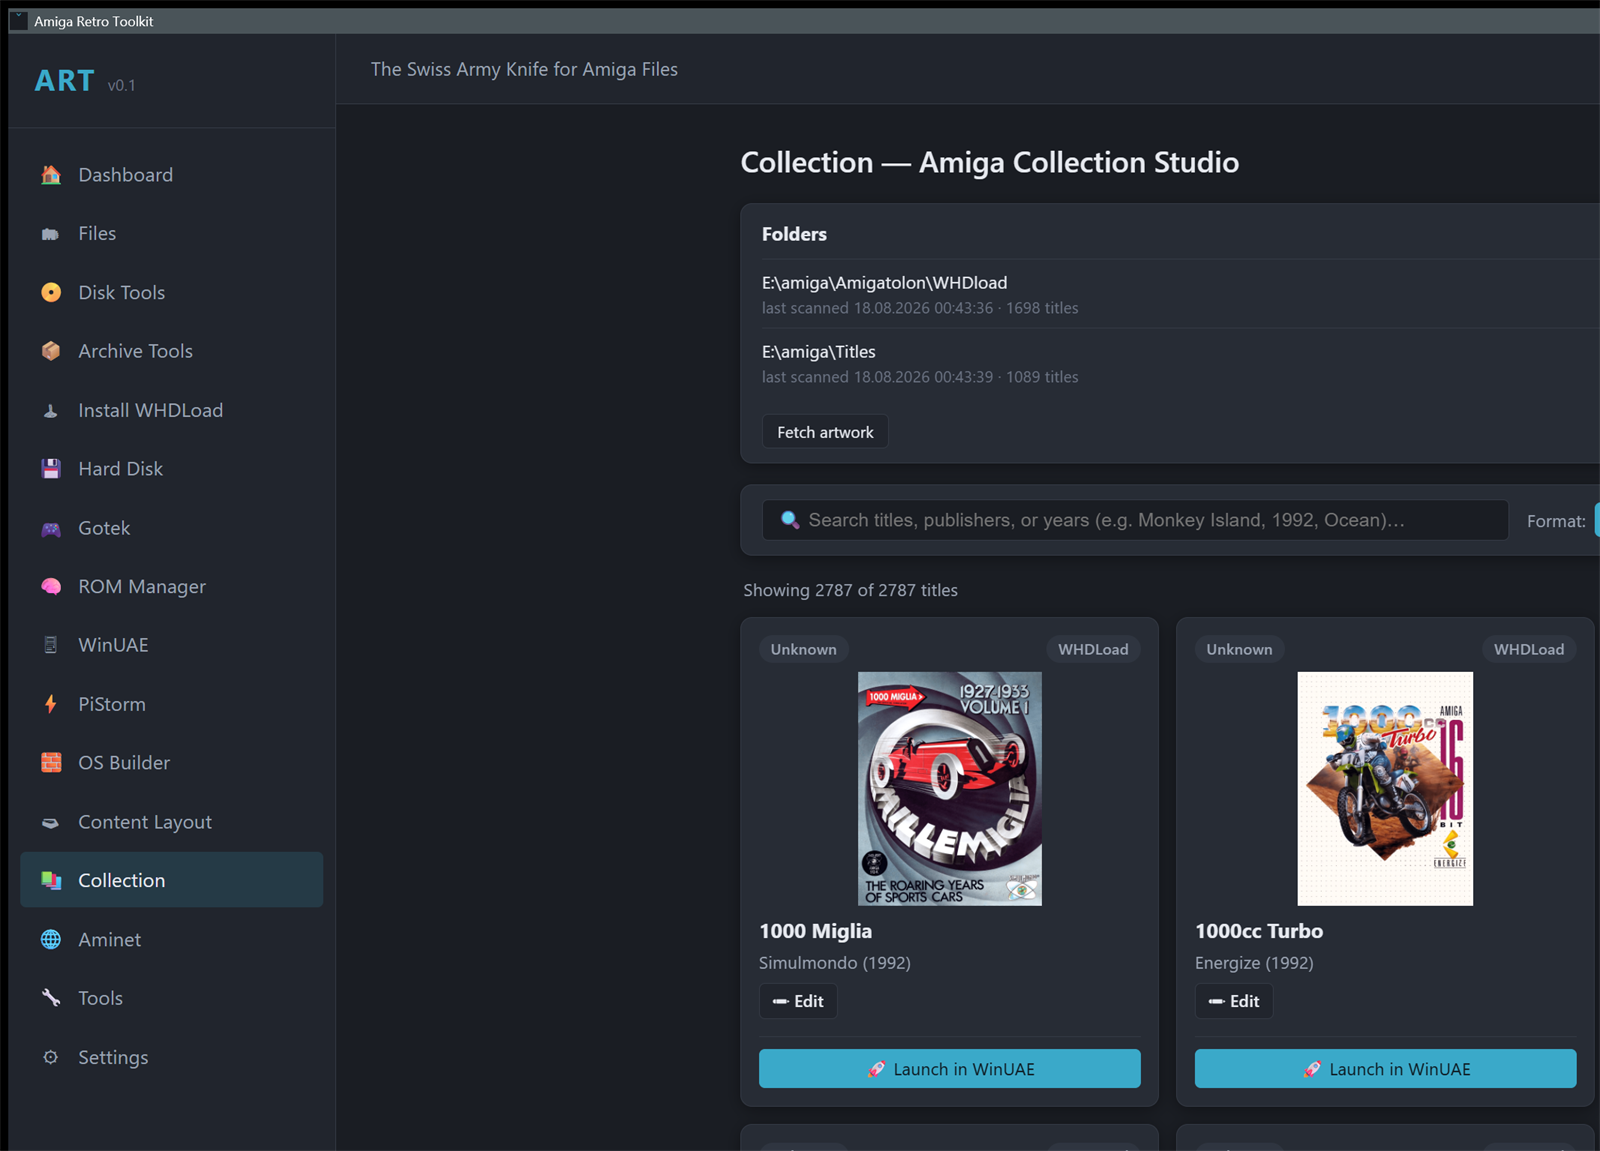
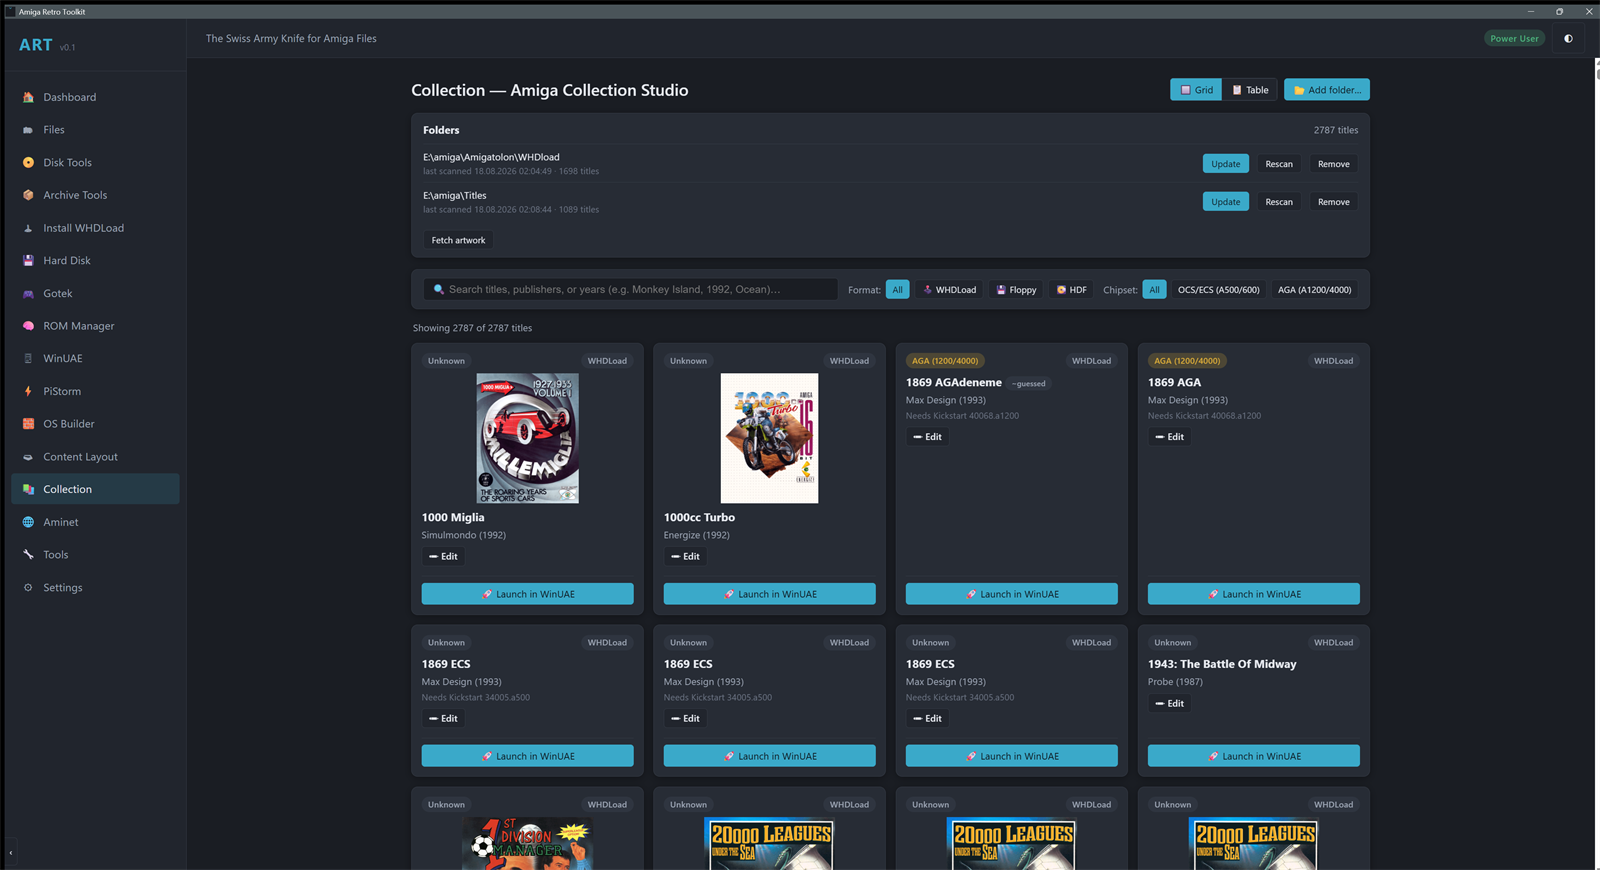
docs: the Collection at full width, and the pair worth explaining
The crop is gone because the reason for it is: ART-137 is fixed, so the
two cards that were framed out now read "Needs Kickstart 40068.a1200"
like everything else.

The two 1869 cards stay in shot on purpose and the caption says why.
Both are AGA, both want the same ROM, and both know it from the WHDLoad
slave inside them — but one of them was renamed on disk, so its *name*
came off the filename and ART marks it ~guessed while its neighbour,
named by the slave, carries no mark. A guess and a statement look
identical once they are on a screen, and refusing to let them is the
whole point of the provenance layer. A real example of that beats a
tidier picture.

diff --git a/docs/assets/README.md b/docs/assets/README.md
@@ -11,10 +11,15 @@ rather than photographing the screen, so nothing behind or beside it can appear
 in the result. Downscaled to 1600 px wide; otherwise untouched — no
 compositing, nothing painted over.
 
-`collection.png` is the only cropped one, and the crop is not for looks: two
-cards outside the frame show [ART-137](../ISSUES.md), a Kickstart name that is
-really machine code. **A full-width Collection shot belongs here as soon as that
-is fixed** — cropping around a defect is a stopgap, not a decision.
+`collection.png` was cropped at first, and not for looks: two cards outside the
+frame showed [ART-137](../ISSUES.md), a Kickstart name that was really machine
+code. It is full-width now because that was fixed rather than framed around —
+those two cards read `Needs Kickstart 40068.a1200` in this one.
+
+The pair of `1869` cards is kept deliberately. One is named by its WHDLoad
+slave and one by its filename, so one carries the `~guessed` mark and the other
+does not: a real example of the distinction the whole provenance layer exists
+for, which is worth more than a tidier picture.
 
 ### The three screens that are missing, and why
 

diff --git a/README.md b/README.md
@@ -31,6 +31,14 @@ you ask it to.
 
 ![The Collection: 2787 titles across two folders, with cover art](docs/assets/collection.png)
 
+*The two `1869` cards in the top row are the point, and they are a real pair
+rather than a staged one. Both are AGA, both ask for Kickstart `40068.a1200`,
+and both say so because the WHDLoad slave inside them says so. But the third
+card's **name** was taken off its filename — somebody had renamed the file —
+so ART marks it `~guessed` while its neighbour, named by the slave itself,
+carries no mark. A guess and a statement look identical once they are on a
+screen, and ART's answer is to never let them.*
+
 **A PiStorm card, described in the words its own documentation uses.** Every
 control writes a documented Emu68 option or a Raspberry Pi firmware setting —
 and tells you which one. Both files are merged into what is already on the card,
